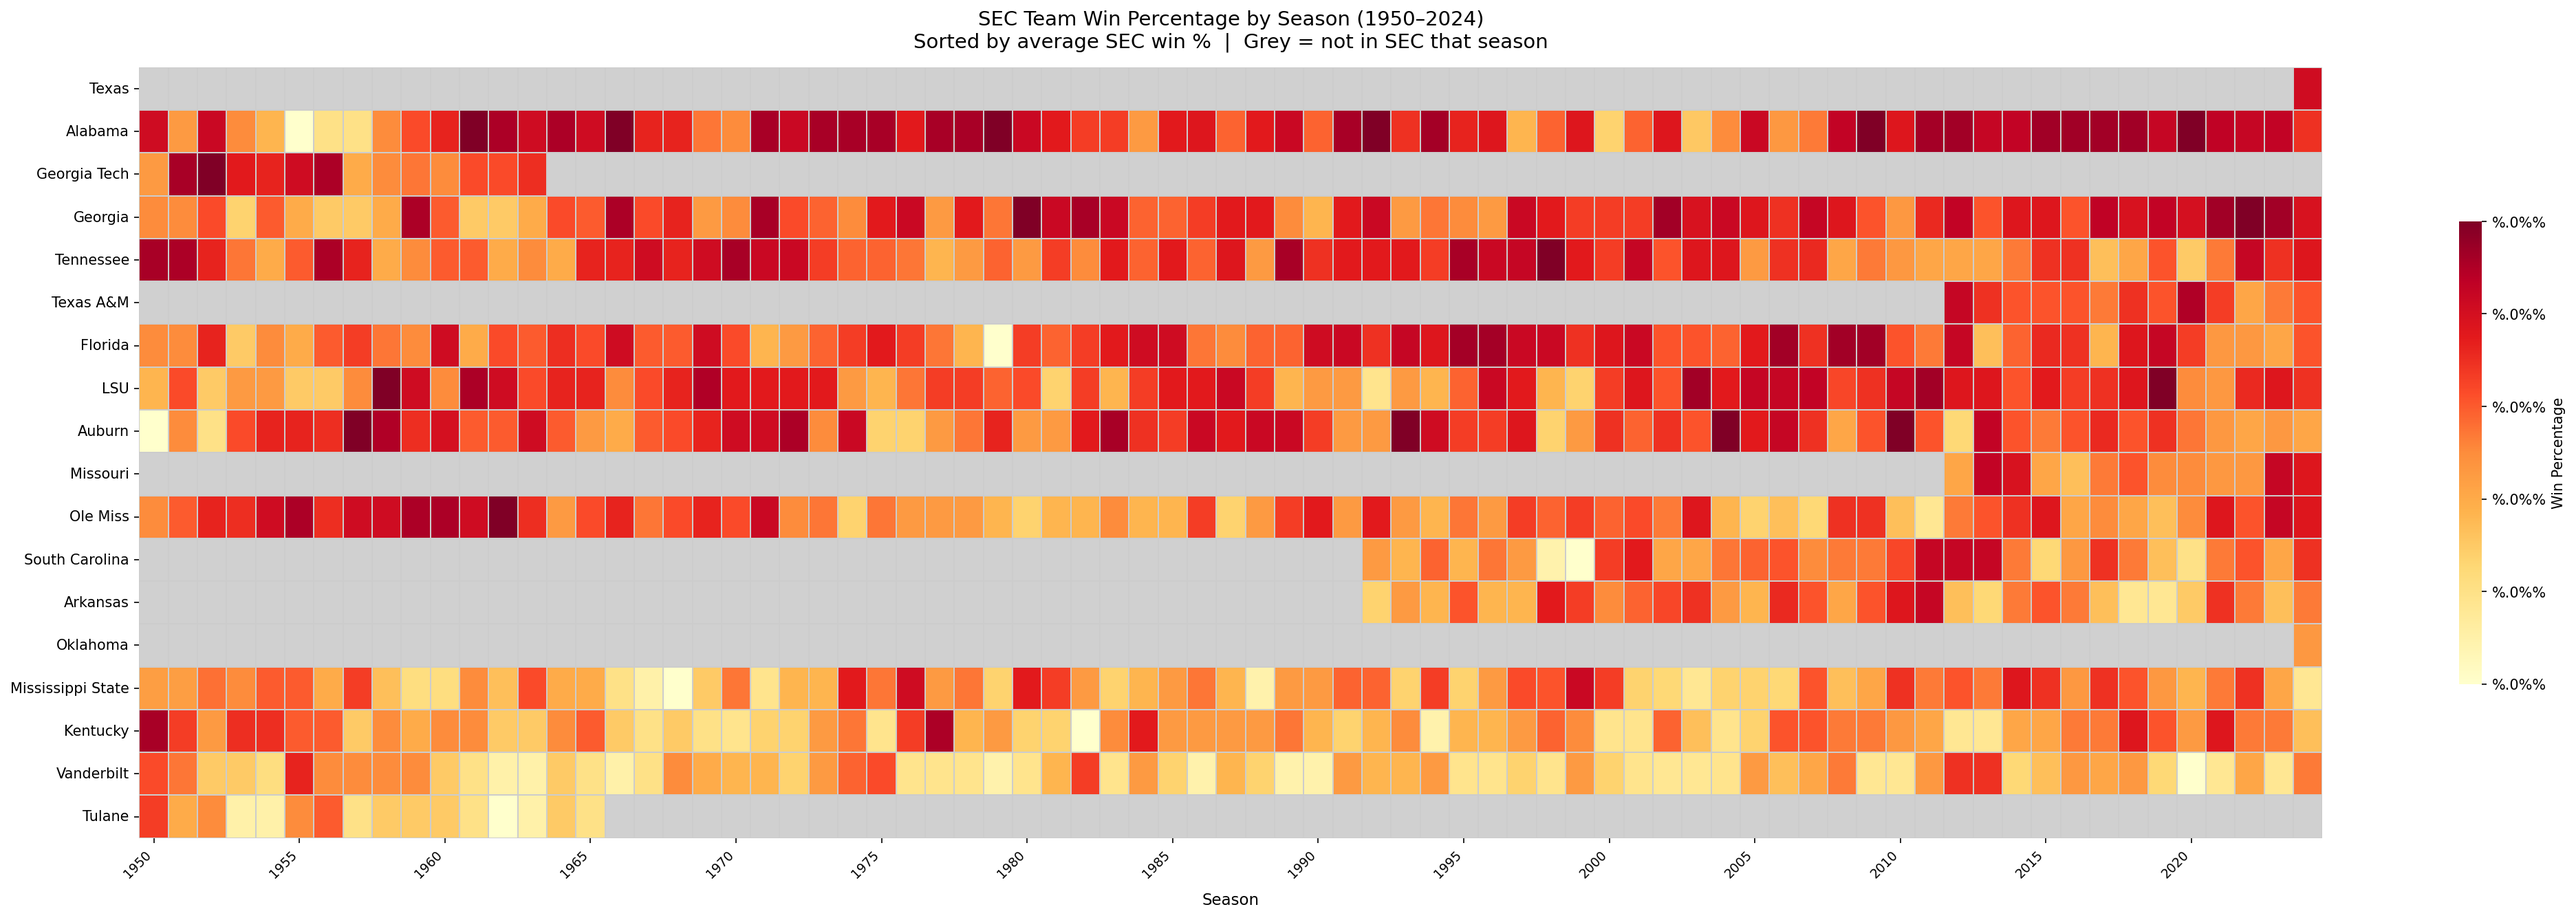
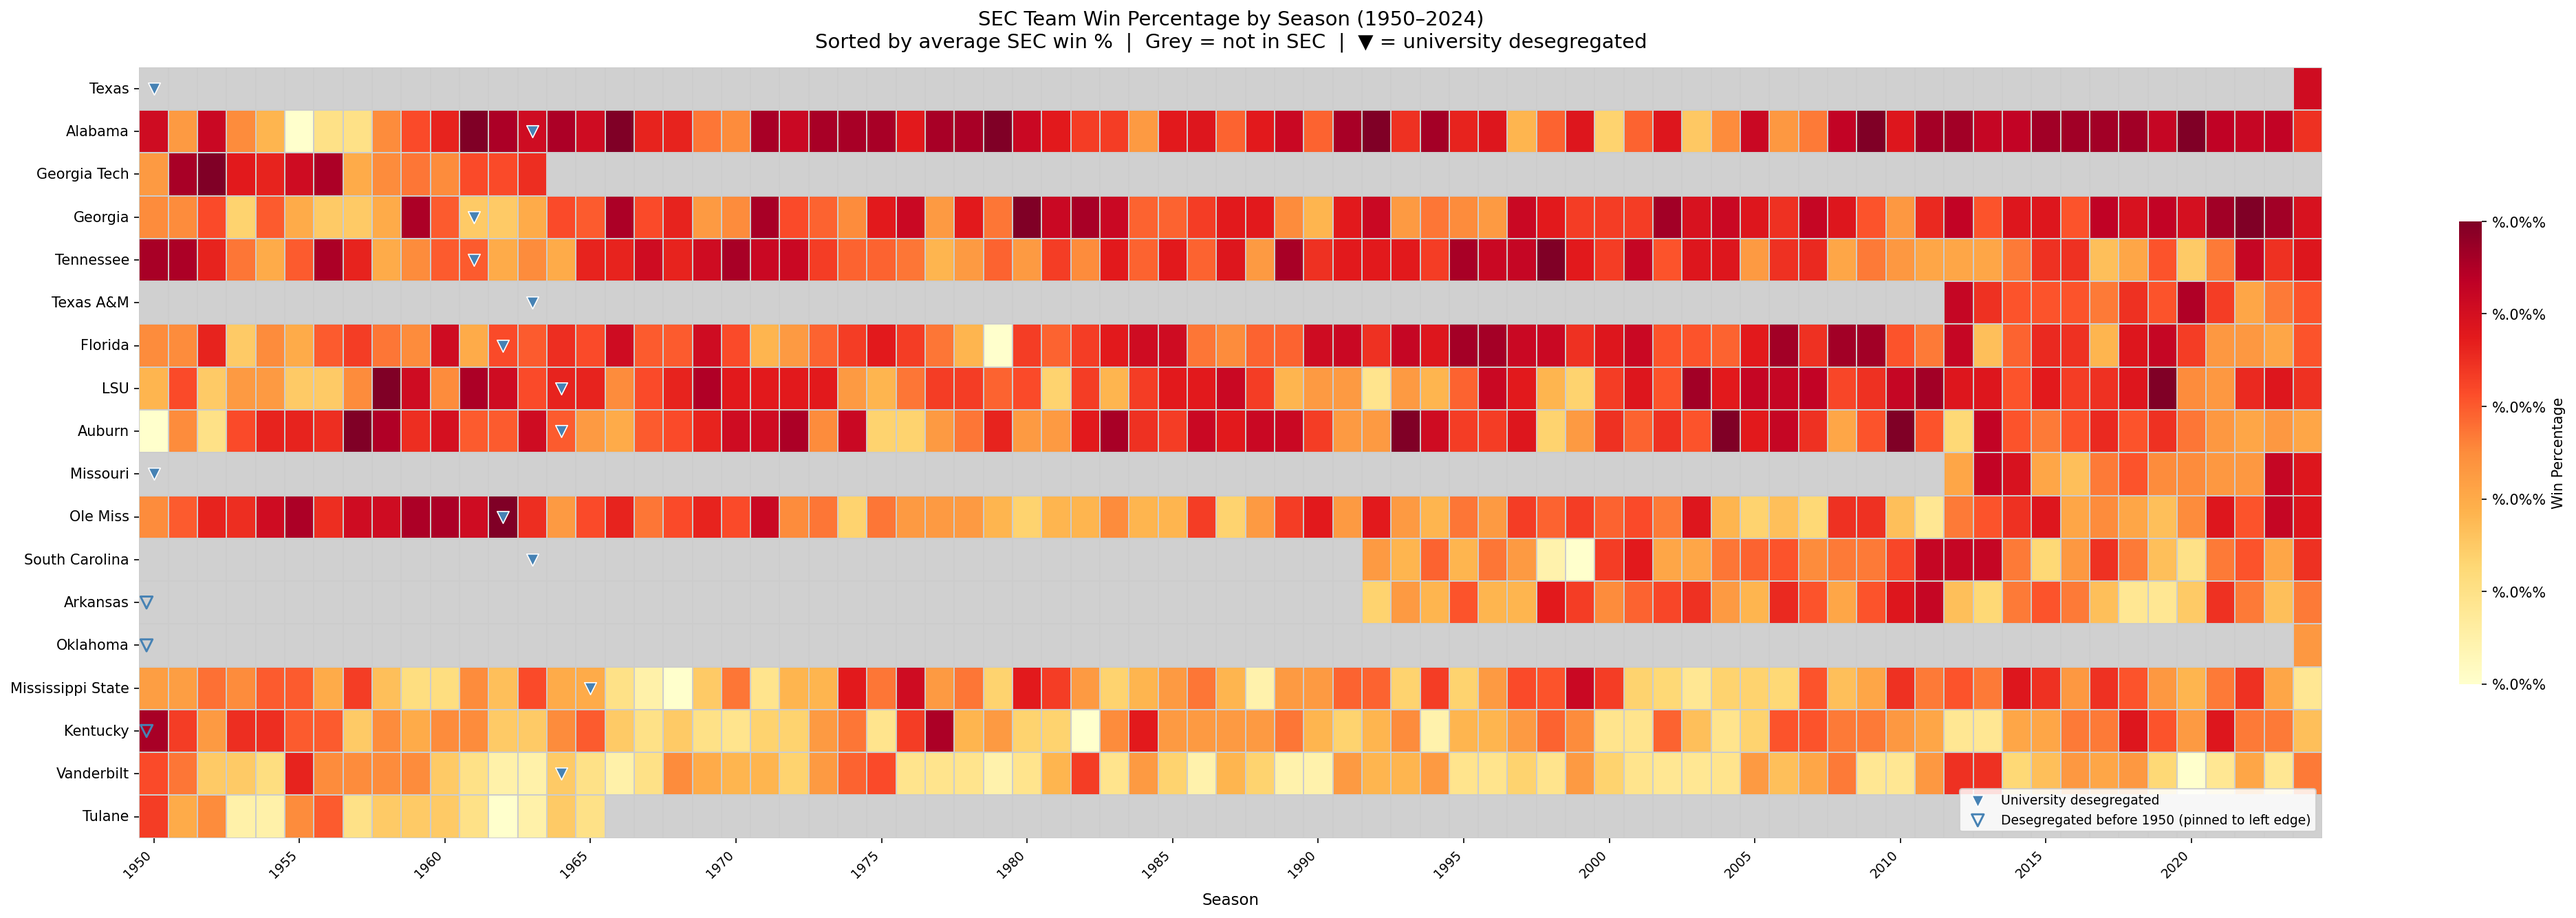
Add university desegregation markers to SEC win % heatmap
Overlays a downward triangle (▼) on each team's row at the year their
university first admitted Black students, sourced from university archives
and civil rights historical records. Schools that desegregated before 1950
(Arkansas 1948, Kentucky 1949, Oklahoma 1949) are shown with an open marker
pinned to the left edge of the chart.

Changed region(s): [[0.7498, 0.8599, 0.906, 0.9213], [0.3124, 0.0307, 0.6248, 0.0614]]

diff --git a/sec_wins_heatmap.py b/sec_wins_heatmap.py
@@ -19,6 +19,28 @@ OUTPUT_FILE = Path("output/sec_winpct_heatmap.png")
 START_YEAR = 1950
 END_YEAR = 2024
 
+# Year each university first admitted Black students to the main campus.
+# Sources: university archives, Wikipedia, civil rights historical records.
+# Schools marked with * desegregated before START_YEAR; shown at the left edge.
+DESEG_YEARS = {
+    "Alabama":          1963,  # Vivian Malone & James Hood, June 11 1963
+    "Arkansas":         1948,  # Silas Hunt, Law School, Feb 2 1948  *
+    "Auburn":           1964,  # Harold A. Franklin, Jan 4 1964
+    "Florida":          1962,  # Seven Black undergraduates, Fall 1962
+    "Georgia":          1961,  # Charlayne Hunter & Hamilton Holmes, Jan 9 1961
+    "Kentucky":         1949,  # Lyman T. Johnson, graduate school 1949  *
+    "LSU":              1964,  # First Black undergraduates, Fall 1964
+    "Mississippi State":1965,  # Richard E. Holmes, July 1965
+    "Missouri":         1950,  # Gus T. Ridgel & others, 1950
+    "Ole Miss":         1962,  # James Meredith, Oct 1 1962
+    "South Carolina":   1963,  # Monteith, Anderson & Solomon, Sep 11 1963
+    "Tennessee":        1961,  # Robinson, Blair & Gillespie, Jan 4 1961
+    "Texas A&M":        1963,  # Leroy Sterling & others, Summer 1963
+    "Vanderbilt":       1964,  # Eight students incl. Dianne White Bernstein, Fall 1964
+    "Texas":            1950,  # Heman Marion Sweatt, Law School, Fall 1950
+    "Oklahoma":         1949,  # Ada Lois Sipuel Fisher, Law School 1949  *
+}
+
 
 def fetch_sec_records() -> pd.DataFrame:
     """
@@ -120,9 +142,48 @@ def create_heatmap(df: pd.DataFrame) -> None:
     )
 
     ax.set_yticklabels(ax.get_yticklabels(), rotation=0, fontsize=10)
+
+    # --- Desegregation markers ---
+    teams_ordered = pivot.index.tolist()
+    years_ordered = pivot.columns.tolist()
+
+    marker_x, marker_y = [], []        # deseg year falls within chart range
+    pre_chart_x, pre_chart_y = [], []  # deseg year is before START_YEAR
+
+    for team, deseg_year in DESEG_YEARS.items():
+        if team not in teams_ordered:
+            continue
+        row_idx = teams_ordered.index(team)
+        y = row_idx + 0.5
+        if deseg_year < START_YEAR:
+            pre_chart_x.append(0.25)   # pinned just inside left edge
+            pre_chart_y.append(y)
+        elif deseg_year in years_ordered:
+            col_idx = years_ordered.index(deseg_year)
+            marker_x.append(col_idx + 0.5)
+            marker_y.append(y)
+
+    if marker_x:
+        ax.scatter(
+            marker_x, marker_y,
+            marker="v", s=70,
+            color="steelblue", edgecolors="white", linewidths=0.8,
+            zorder=5, label="University desegregated",
+        )
+    if pre_chart_x:
+        ax.scatter(
+            pre_chart_x, pre_chart_y,
+            marker="v", s=70,
+            facecolors="none", edgecolors="steelblue", linewidths=1.4,
+            zorder=5, label=f"Desegregated before {START_YEAR} (pinned to left edge)",
+        )
+
+    ax.legend(loc="lower right", fontsize=9, framealpha=0.85)
+    # ---
+
     ax.set_title(
         f"SEC Team Win Percentage by Season ({START_YEAR}–{END_YEAR})\n"
-        "Sorted by average SEC win %  |  Grey = not in SEC that season",
+        "Sorted by average SEC win %  |  Grey = not in SEC  |  ▼ = university desegregated",
         fontsize=14,
         pad=14,
     )
